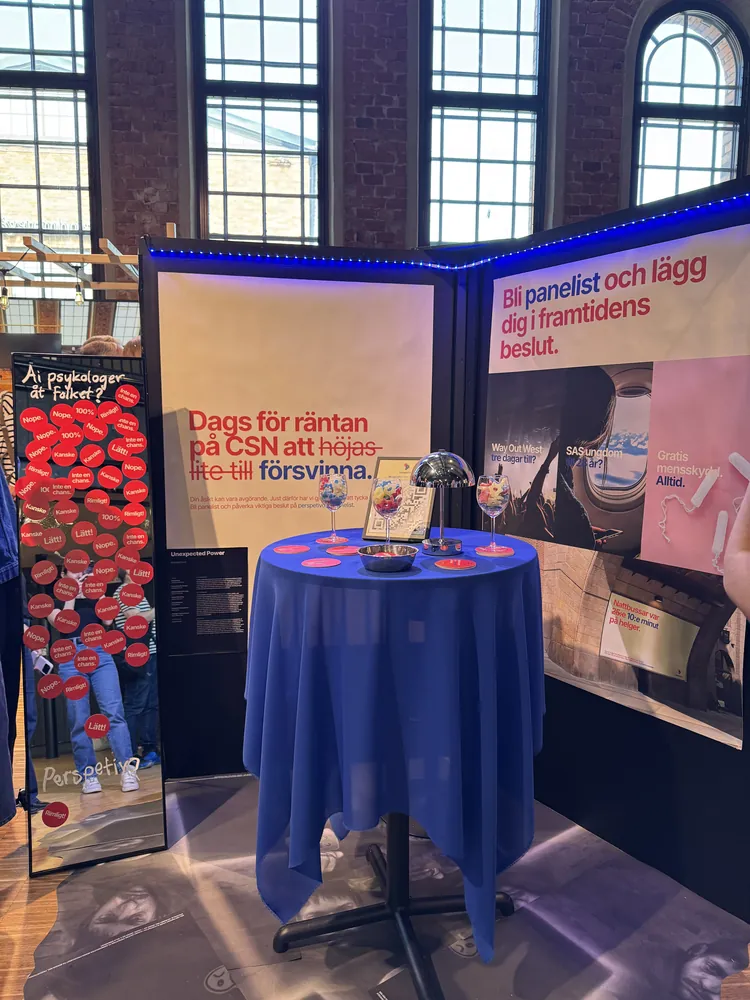
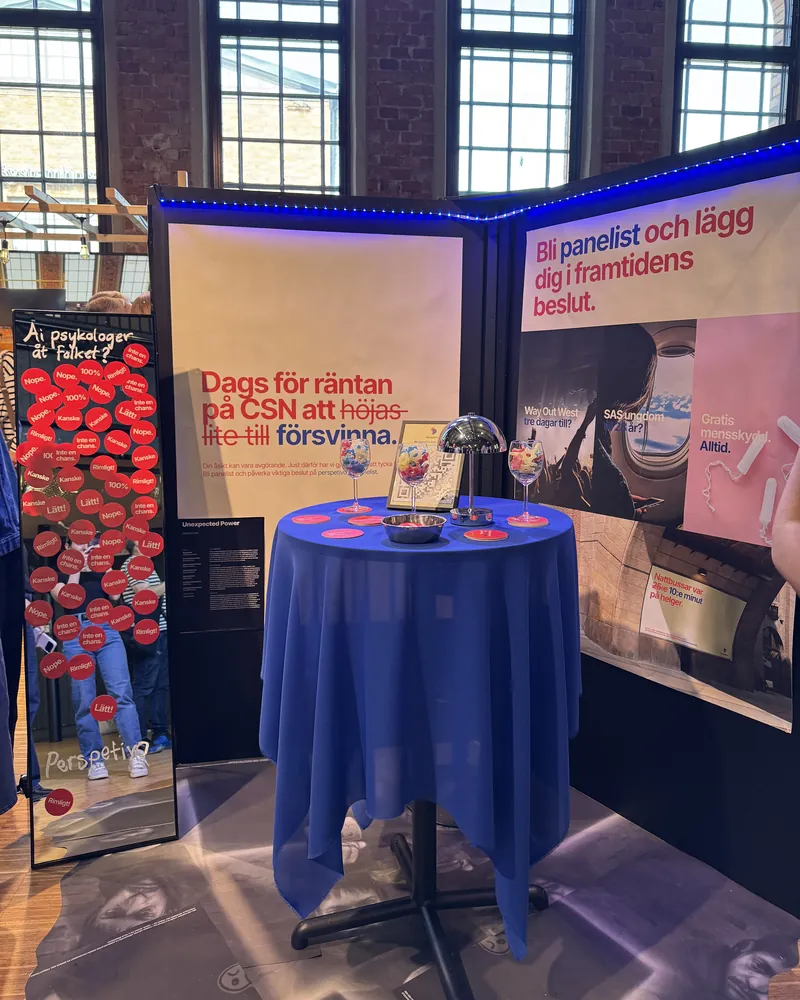
Beskar två Berghs-bilder till 4:5

diff --git a/index.html b/index.html
@@ -241,11 +241,11 @@ height="0" width="0" style="display:none;visibility:hidden"></iframe></noscript>
             <figcaption>Presentation av Aroma Roast i Aulan</figcaption>
           </figure>
           <figure class="photo">
-            <img src="bilder/berghs/lektion-betald-marknadsforing.webp" alt="Lektion om betald marknadsföring, med kundresans tratt på skärmen" width="750" height="1000" loading="lazy">
+            <img src="bilder/berghs/lektion-betald-marknadsforing.webp" alt="Lektion om betald marknadsföring, med kundresans tratt på skärmen" width="800" height="1000" loading="lazy">
             <figcaption>Lektion om betald marknadsföring</figcaption>
           </figure>
           <figure class="photo">
-            <img src="bilder/berghs/examensarbete-perspetivo.webp" alt="Monter från utställningen av vårt examensarbete med Perspetivo" width="750" height="1000" loading="lazy">
+            <img src="bilder/berghs/examensarbete-perspetivo.webp" alt="Monter från utställningen av vårt examensarbete med Perspetivo" width="800" height="1000" loading="lazy">
             <figcaption>Utställning av vårt examensarbete med Perspetivo där vi skulle få fler att gå med som panelister</figcaption>
           </figure>
         </div>
